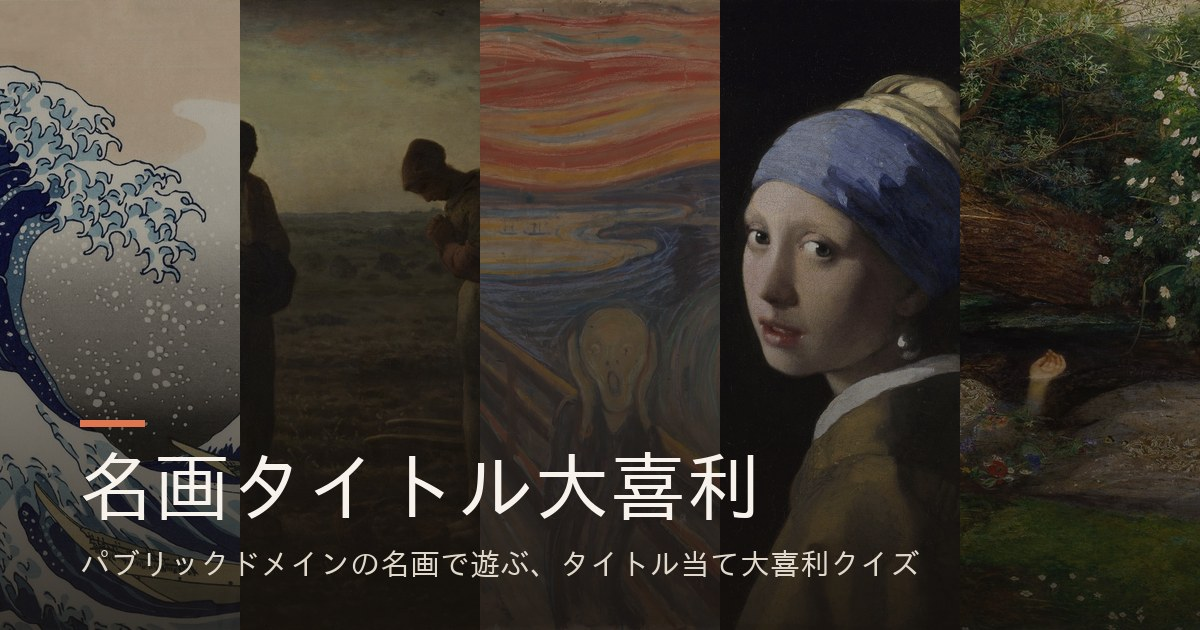
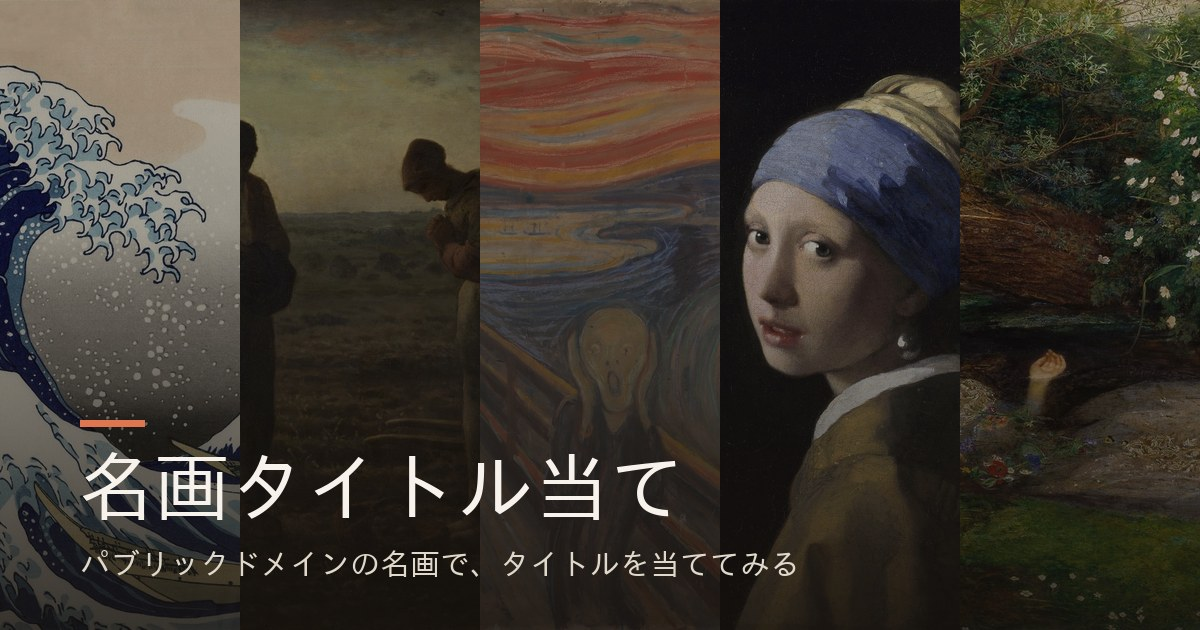
「大喜利」推しの打ち出しをやめ、「タイトルを当てる」をメインに変更
アプリ名・meta/OGPタグ・トップ画面の文言・OGPバナー画像を
「名画タイトル大喜利」→「名画タイトル当て」に変更。タイトルを
真面目に当てにいく体験をメインに据え、大喜利はおまけの温度感にした。

Claude-Session: https://claude.ai/code/session_012pkUB3X4VZMPjkYMj73FL3

Changed region(s): [[0.4317, 0.7238, 0.6475, 0.8444], [0.4008, 0.8746, 0.5858, 0.9349], [0.6167, 0.8746, 0.7708, 0.9349]]

diff --git a/index.html b/index.html
@@ -3,15 +3,15 @@
 <head>
 <meta charset="UTF-8">
 <meta name="viewport" content="width=device-width, initial-scale=1, viewport-fit=cover">
-<title>名画タイトル大喜利</title>
-<meta name="description" content="著作権の切れた名画を見て、勝手にタイトルを予想する一人用クイズ。答え合わせのあとに本当のタイトル・作者・背景を解説。全10問、判定・採点なし。">
+<title>名画タイトル当て</title>
+<meta name="description" content="著作権の切れた名画を見て、タイトルを当ててみる一人用アプリ。答え合わせのあとに本当のタイトル・作者・背景を解説。全10問、判定・採点なし。">
 <meta name="theme-color" content="#c8593a">
 
 <!-- Open Graph / SNSでのリンクシェア用（GitHub Pagesのドメインが確定したら og:url と og:image を実URLに差し替えてください） -->
 <meta property="og:type" content="website">
-<meta property="og:site_name" content="名画タイトル大喜利">
-<meta property="og:title" content="名画タイトル大喜利">
-<meta property="og:description" content="著作権の切れた名画を見て、勝手にタイトルを予想する一人用クイズ。答え合わせのあとに本当のタイトル・作者・背景を解説。全10問。">
+<meta property="og:site_name" content="名画タイトル当て">
+<meta property="og:title" content="名画タイトル当て">
+<meta property="og:description" content="著作権の切れた名画を見て、タイトルを当ててみる一人用アプリ。答え合わせのあとに本当のタイトル・作者・背景を解説。全10問。">
 <meta property="og:url" content="https://withtoasty.github.io/ogiti-art/">
 <meta property="og:image" content="https://withtoasty.github.io/ogiti-art/images/og-image.jpg">
 <meta property="og:image:width" content="1200">
@@ -19,8 +19,8 @@
 <meta property="og:locale" content="ja_JP">
 
 <meta name="twitter:card" content="summary_large_image">
-<meta name="twitter:title" content="名画タイトル大喜利">
-<meta name="twitter:description" content="著作権の切れた名画を見て、勝手にタイトルを予想する一人用クイズ。全10問、判定・採点なし。">
+<meta name="twitter:title" content="名画タイトル当て">
+<meta name="twitter:description" content="著作権の切れた名画を見て、タイトルを当ててみる一人用アプリ。全10問、判定・採点なし。">
 <meta name="twitter:image" content="https://withtoasty.github.io/ogiti-art/images/og-image.jpg">
 <style>
   :root{
@@ -211,8 +211,8 @@ function renderFrame(container, w){
 function renderStart(){
   app.innerHTML = `
     <div class="start-hero">🖼</div>
-    <h1>名画タイトル大喜利</h1>
-    <p class="lead">著作権の切れた名画を見て、勝手にタイトルを想像してください。答え合わせのあとに本当の背景も解説します。全${WORKS.length}問。</p>
+    <h1>名画タイトル当て</h1>
+    <p class="lead">著作権の切れた名画を見て、タイトルを当ててみてください。答え合わせのあとに本当の背景も解説します。全${WORKS.length}問。</p>
     <div class="card">
       <button class="primary" id="startBtn">はじめる</button>
     </div>

diff --git a/README.md b/README.md
@@ -1,8 +1,9 @@
-# 名画タイトル大喜利（ogiti-art）
+# 名画タイトル当て（ogiti-art）
 
-著作権の切れた（パブリックドメインの）名画を見せて、タイトルを自由に予想してもらう
-一人用クイズWebアプリ。判定・採点はせず、答え合わせのあとに本当のタイトル・作者・
-背景をオリジナル解説文で表示する。
+著作権の切れた（パブリックドメインの）名画を見せて、タイトルを当ててもらう
+一人用Webアプリ。判定・採点はせず、答え合わせのあとに本当のタイトル・作者・
+背景をオリジナル解説文で表示する。真面目に当てにいってもいいし、疲れて
+ふざけた回答（大喜利）になってもいい、というくらいの温度感。
 
 ## 遊び方
 
